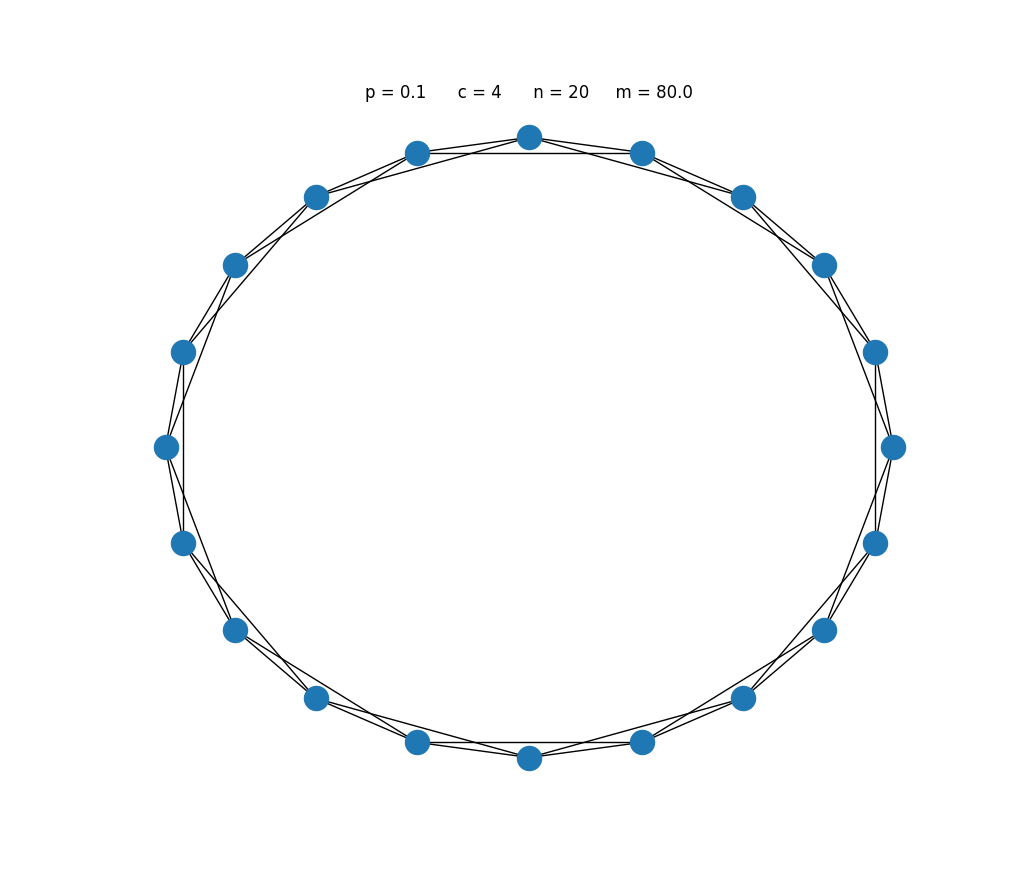
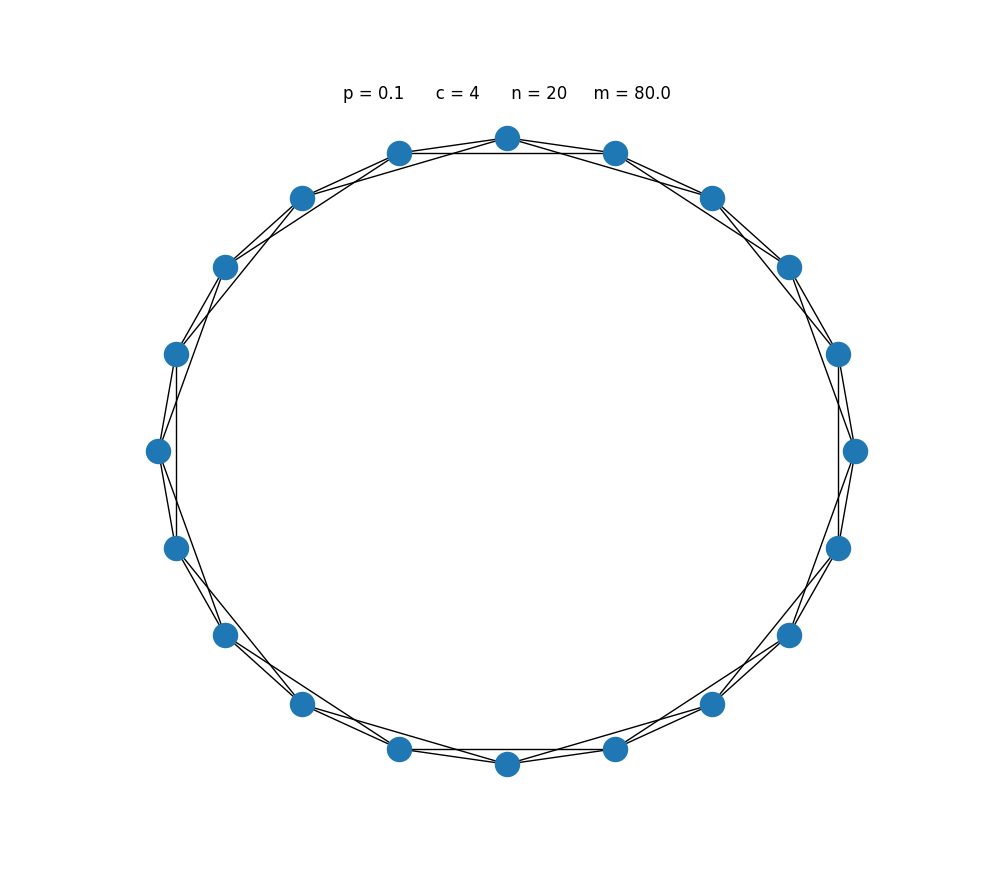
commit

diff --git a/HW4/Network.py b/HW4/Network.py
@@ -72,6 +72,7 @@ class Network:
             if r < self.p:
                 j = (np.random.randint(self.n), np.random.randint(self.n))
                 self.adj_matrix[j[0], j[1]] = 1
+        self.m = np.sum(self.adj_matrix[np.where(self.adj_matrix==1)])
 
     def build_graph(self):
         v1 = np.where(self.adj_matrix == 1)[0]
@@ -142,6 +143,7 @@ class Network:
         self.m = np.sum(self.adj_matrix[np.where(self.adj_matrix==1)])
         
         clustering_coefficient = 3 * nr_triangles / nr_connected_triples
+        self.m = np.sum(self.adj_matrix[np.where(self.adj_matrix==1)])
         return round(clustering_coefficient, 6)
 
     def compute_path_diameter(self):
@@ -171,6 +173,7 @@ class Network:
             self.adj_matrix = np.vstack((self.adj_matrix, row))
             self.adj_matrix = np.column_stack((self.adj_matrix, col))
             self.n += 1
+        self.m = np.sum(self.adj_matrix[np.where(self.adj_matrix==1)])
 
 def task1():
     erdos = Network(n=100, p=0.1, SELF_EDGES=False)
@@ -181,7 +184,7 @@ def task1():
     plt.show()
 
 def task2():
-    wattStrog = Network(n=20, p=0.1, c=4)
+    wattStrog = Network(n=20, p=0.1, c=8)
     wattStrog.init_small_world()
     wattStrog.add_shortcuts()
     wattStrog.build_graph()
@@ -203,7 +206,7 @@ def task4():
     #net.init_small_world()
     net.build_graph()
     net.c = net.compute_clustering_coefficient()   # Using c as a temporary variable
-    net.plot_graph(LOAD=True)
+    net.plot_graph(PATH=True)
     plt.show()
 
 def task5():
@@ -216,8 +219,8 @@ def task5():
     plt.show()
 
 if __name__ == "__main__":
-    task1()
+    #task1()
     #task2()
     #task3()
     #task4()
-    #task5()
+    task5()
